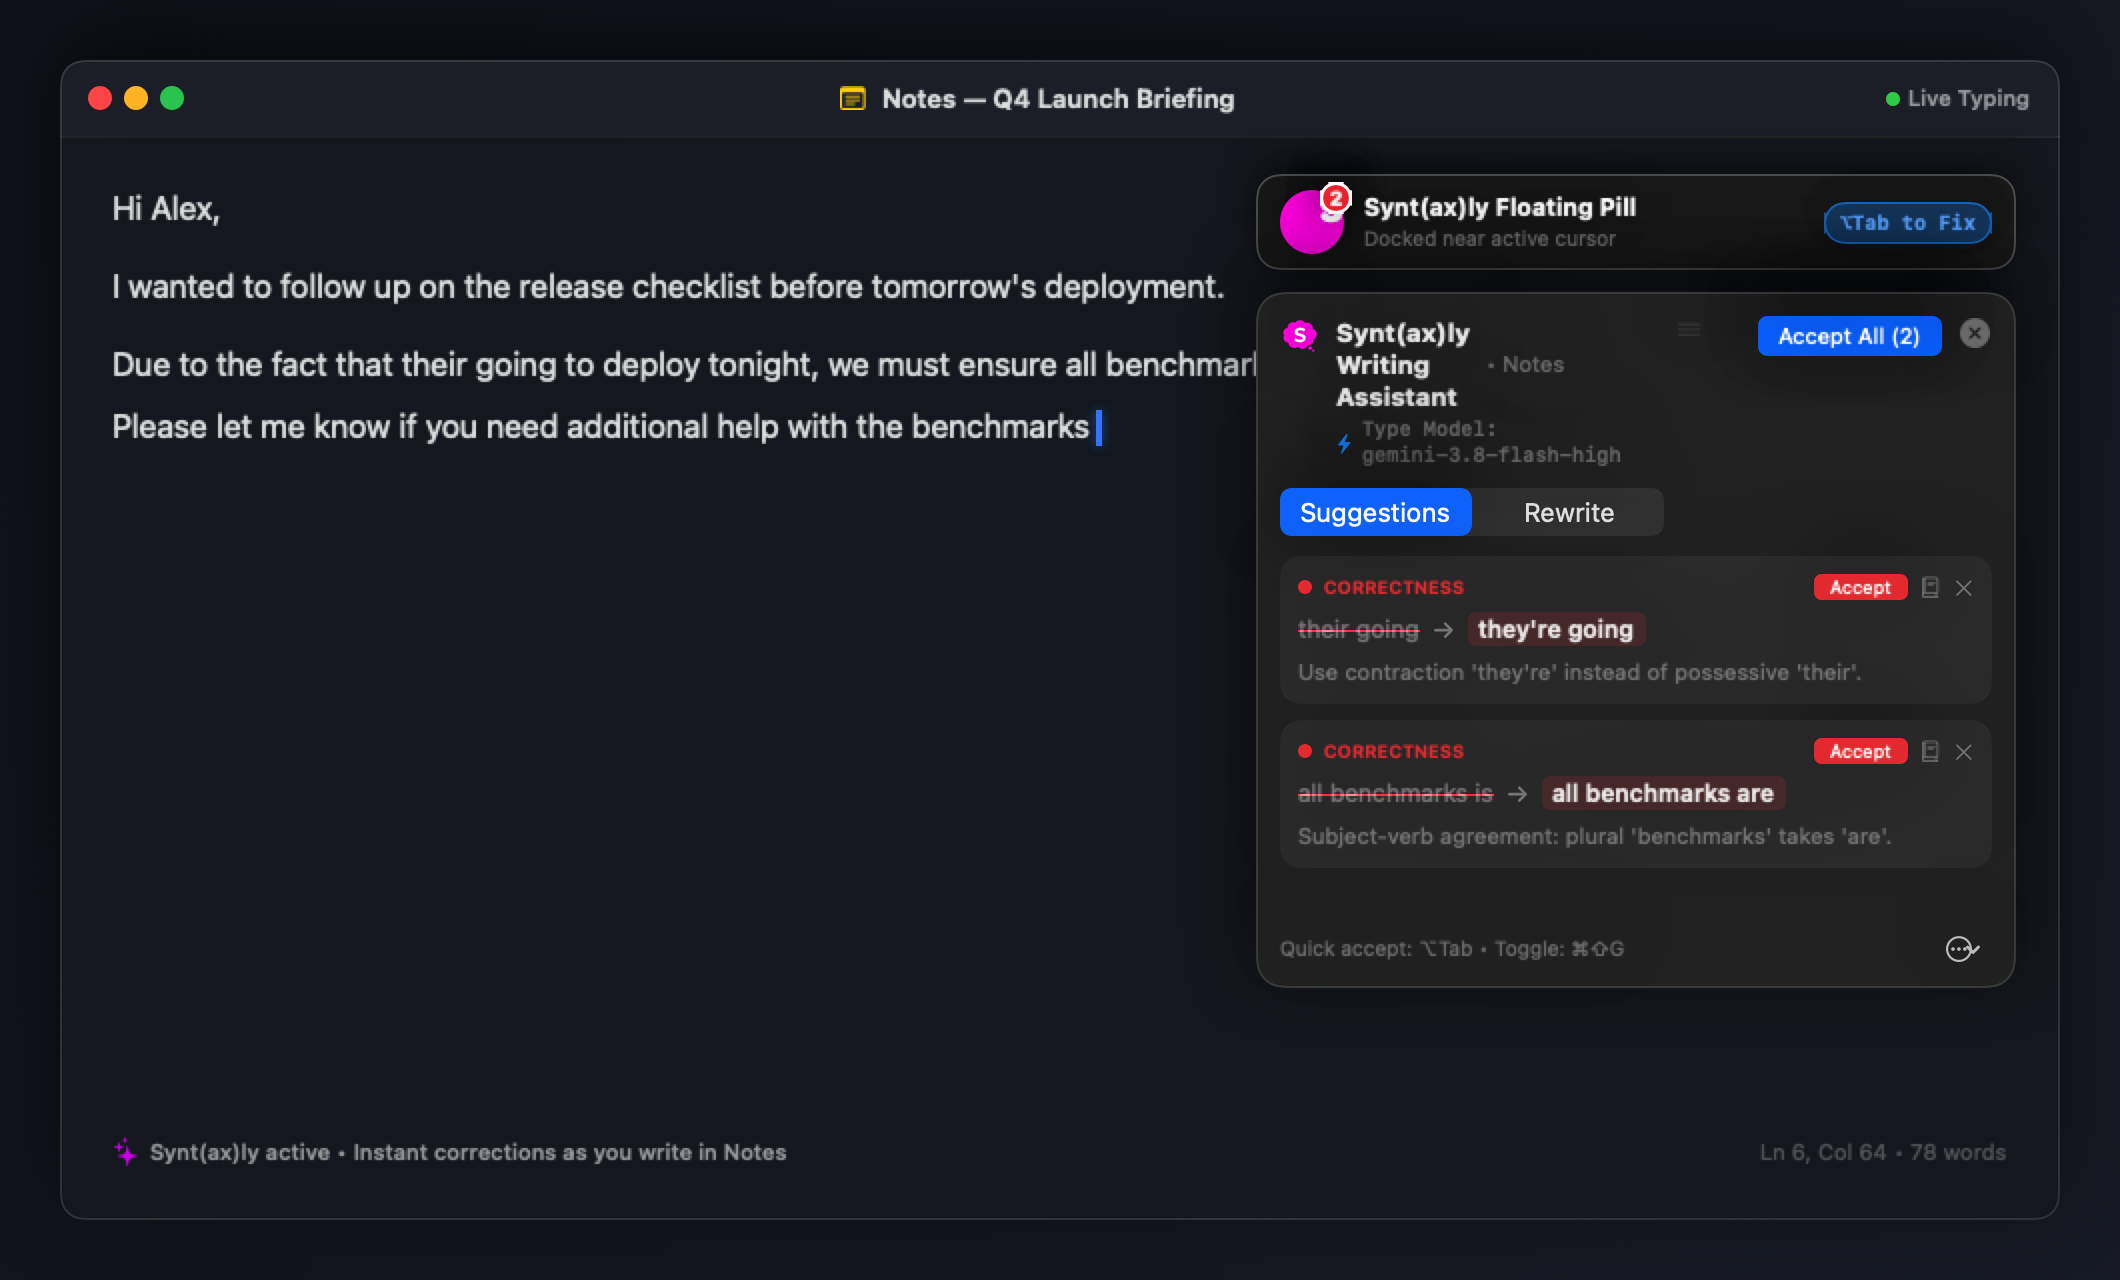
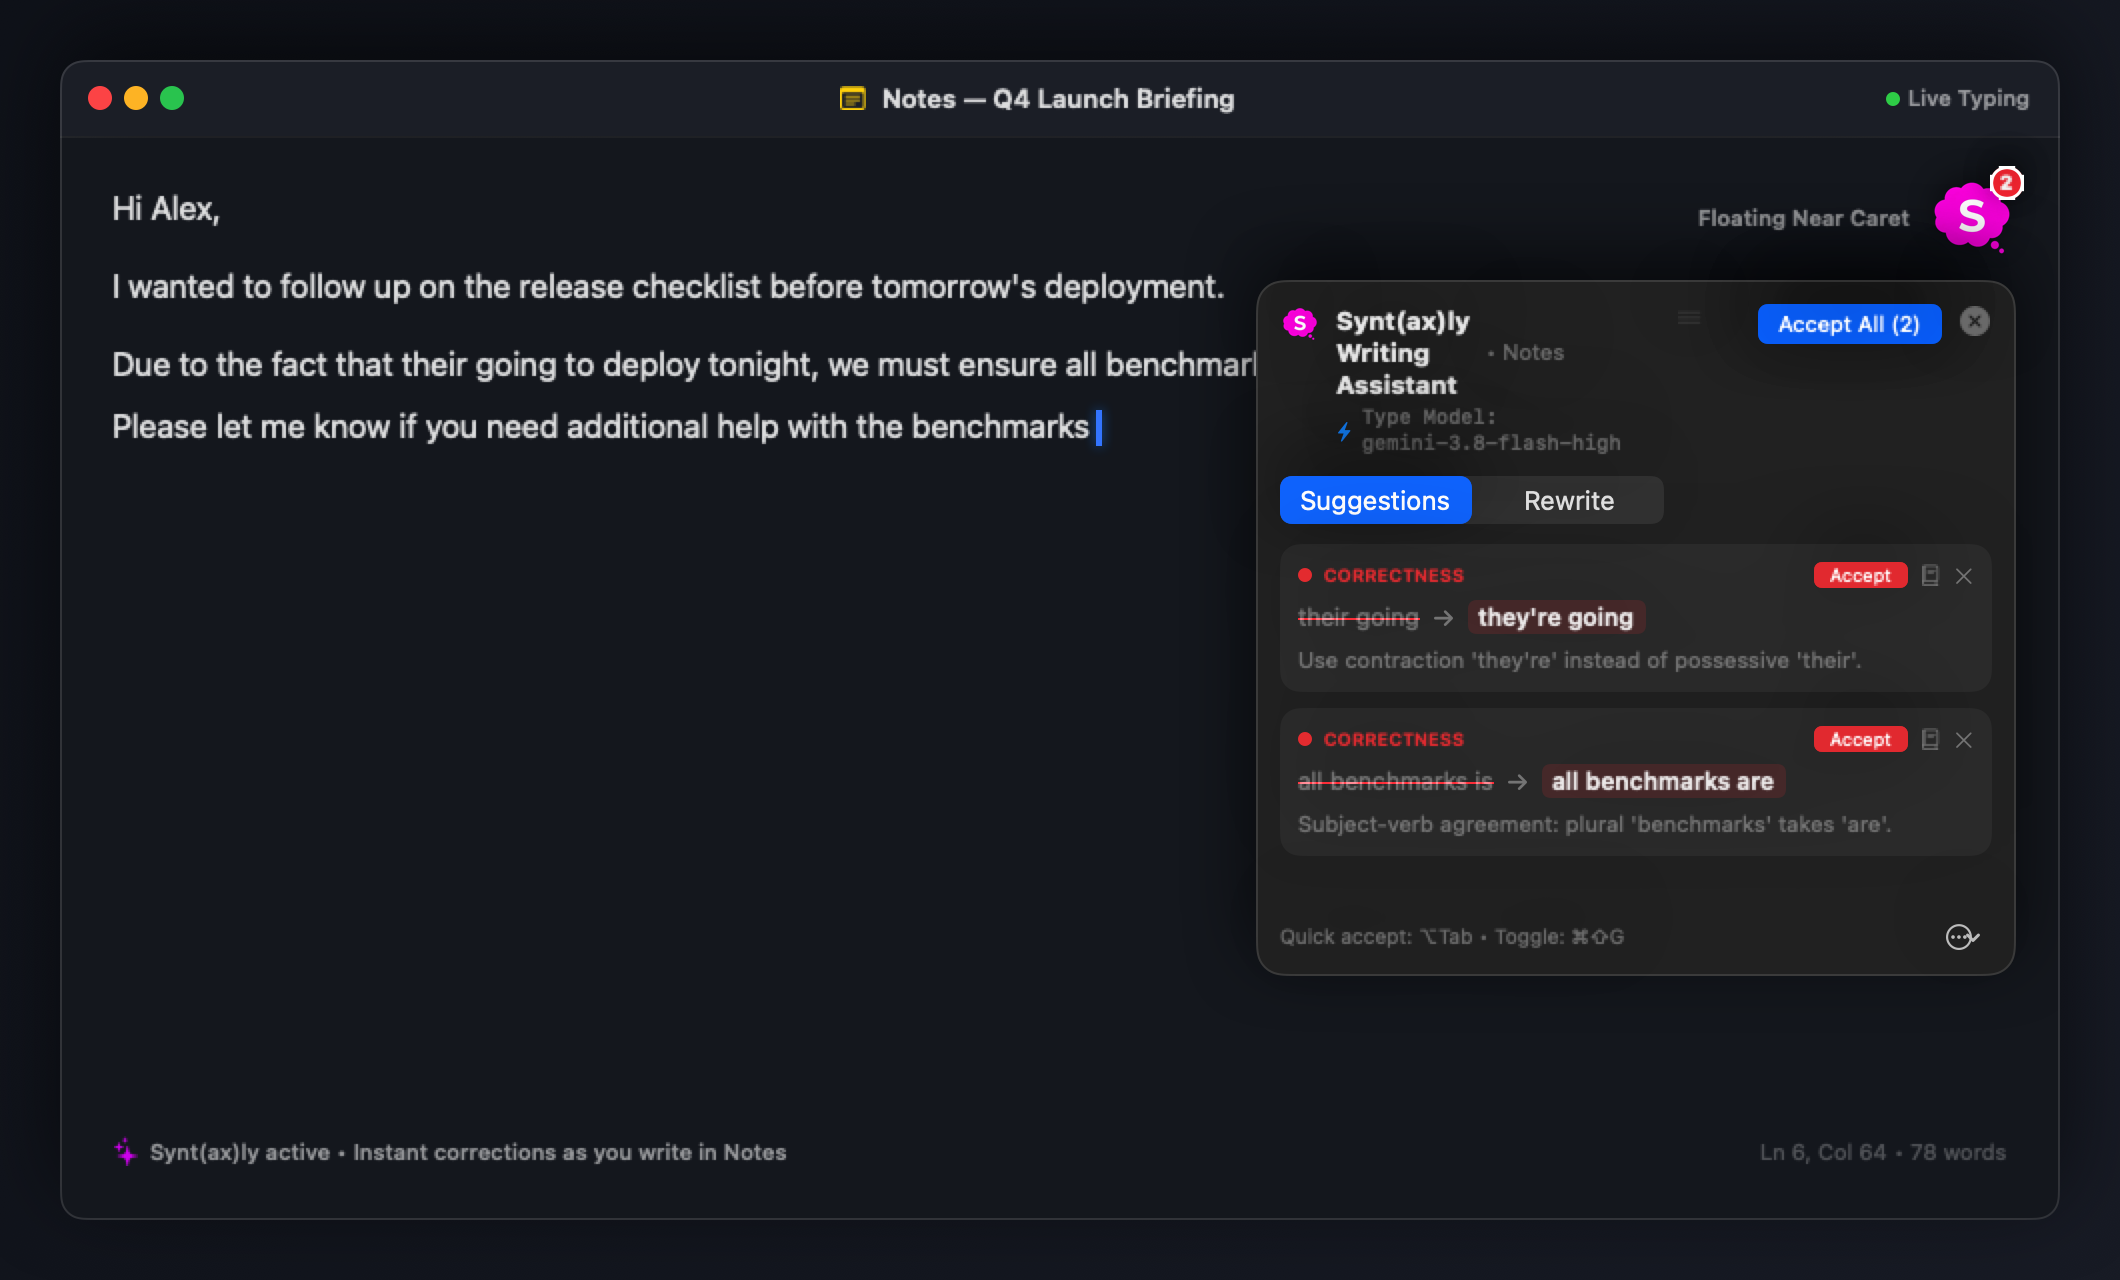
docs: use authentic Manga Thinking Bubble in screenshot and documentation

diff --git a/Sources/SyntlyApp/SyntlyApp.swift b/Sources/SyntlyApp/SyntlyApp.swift
@@ -514,55 +514,36 @@ struct InContextTypingScreenshotView: View {
                     .frame(maxWidth: .infinity, maxHeight: .infinity, alignment: .topLeading)
                     .background(Color(red: 0.10, green: 0.12, blue: 0.15))
 
-                    // Floating Over Document: The Synt(ax)ly Floating Pill & Popover Card
-                    VStack(alignment: .trailing, spacing: 10) {
-                        // 1. Prominent Floating Pill
-                        HStack(spacing: 10) {
+                    // Floating Over Document: The Synt(ax)ly Manga Thinking Bubble Pill & Popover Card
+                    VStack(alignment: .trailing, spacing: 8) {
+                        // 1. Authentic Manga Thinking Bubble Floating Pill
+                        HStack(spacing: 8) {
+                            Text("Floating Near Caret")
+                                .font(.system(size: 11, weight: .semibold))
+                                .foregroundStyle(.secondary)
+
                             ZStack(alignment: .topTrailing) {
-                                Circle()
-                                    .fill(Color(red: 0.996, green: 0.008, blue: 0.890))
-                                    .frame(width: 32, height: 32)
-                                Text("S")
-                                    .font(.system(size: 17, weight: .black, design: .rounded))
-                                    .foregroundStyle(.white)
+                                if let img = NSImage(contentsOfFile: "assets/app_icon_1024.png") {
+                                    Image(nsImage: img)
+                                        .resizable()
+                                        .aspectRatio(contentMode: .fit)
+                                        .frame(width: 44, height: 44)
+                                } else {
+                                    Image(nsImage: StatusBarController.renderMangaBubble(size: 44))
+                                        .resizable()
+                                        .frame(width: 44, height: 44)
+                                }
 
                                 Text("2")
                                     .font(.system(size: 10, weight: .heavy, design: .rounded))
                                     .foregroundStyle(.white)
-                                    .frame(minWidth: 16, minHeight: 16)
+                                    .frame(minWidth: 17, minHeight: 17)
                                     .background(Color(red: 1.0, green: 0.25, blue: 0.25), in: Capsule())
                                     .overlay(Capsule().strokeBorder(.white, lineWidth: 1.5))
                                     .offset(x: 4, y: -4)
                             }
-
-                            VStack(alignment: .leading, spacing: 2) {
-                                Text("Synt(ax)ly Floating Pill")
-                                    .font(.system(size: 12, weight: .bold))
-                                    .foregroundStyle(.white)
-                                Text("Docked near active cursor")
-                                    .font(.system(size: 10))
-                                    .foregroundStyle(.secondary)
-                            }
-
-                            Spacer()
-
-                            Text("⌥Tab to Fix")
-                                .font(.system(size: 10, weight: .bold, design: .monospaced))
-                                .padding(.horizontal, 8)
-                                .padding(.vertical, 4)
-                                .background(Color.blue.opacity(0.3), in: Capsule())
-                                .overlay(Capsule().strokeBorder(Color.blue.opacity(0.6), lineWidth: 1))
-                                .foregroundStyle(Color(red: 0.4, green: 0.7, blue: 1.0))
+                            .shadow(color: .black.opacity(0.45), radius: 8, y: 4)
                         }
-                        .padding(.horizontal, 12)
-                        .padding(.vertical, 8)
-                        .frame(width: 380)
-                        .background(.ultraThinMaterial, in: RoundedRectangle(cornerRadius: 12, style: .continuous))
-                        .overlay(
-                            RoundedRectangle(cornerRadius: 12, style: .continuous)
-                                .strokeBorder(Color.white.opacity(0.22), lineWidth: 1)
-                        )
-                        .shadow(color: .black.opacity(0.5), radius: 10, y: 5)
 
                         // 2. The live suggestions popover card
                         FloatingOverlayView(coordinator: coordinator)

diff --git a/README.md b/README.md
@@ -35,9 +35,9 @@ Download the ready-to-run DMG installer for version **v1 (1.0.0)** directly from
 ![Syntly Writing Pad Workspace](assets/screenshot_writing_pad.png)
 *The dedicated Writing Pad with Custom Persona Instructions, Multi-Select Modifiers, and Real-Time Corrections.*
 
-### In-Context Floating Pill & Real-Time Proofreading
-![Real-Time In-Context Proofreading & Floating Pill](assets/screenshot_floating_pill.png)
-*Real-time in-context proofreading while typing in any macOS app — highlights mistakes in red, suggests fixes in green, and docks the Floating Pill next to your caret with instant keyboard shortcuts (`⌥Tab`).*
+### In-Context Manga Thinking Bubble & Real-Time Proofreading
+![Real-Time In-Context Proofreading & Manga Thinking Bubble](assets/screenshot_floating_pill.png)
+*Real-time in-context proofreading while typing in any macOS app — the hot-pink Manga Thinking Bubble docks right beside your active cursor, with live suggestions HUD and instant keyboard replacement (`⌥Tab`).*
 
 ---
 
@@ -62,10 +62,11 @@ Download the ready-to-run DMG installer for version **v1 (1.0.0)** directly from
 
 ### 2. System-Wide Real-Time Proofreading (`⌥Tab`)
 
-![Real-Time In-Context Proofreading & Floating Pill](assets/screenshot_floating_pill.png)
+![Real-Time In-Context Proofreading & Manga Thinking Bubble](assets/screenshot_floating_pill.png)
 
-- **Non-Intrusive Floating Corner Pill**: Floats near your active cursor across Slack, VS Code, Notes, Mail, Discord, and browsers without stealing focus.
-- **Visual Red & Green Feedback**: Highlights typos, misspellings, and grammatical errors with red underline tokens, and displays verified corrections in green.
+- **Manga Thinking Bubble Floating Pill**: The iconic hot-pink thinking bubble floats right beside your active cursor across Slack, Notes, Mail, VS Code, Discord, and browsers. Shows a green checkmark when your writing is all clear, and a red counter badge when improvements are detected.
+- **Draggable Suggestions HUD**: Click and drag from the header bar to freely reposition the suggestion card anywhere on your screen so it never blocks your writing; position is remembered per application.
+- **Visual Red & Green Feedback**: Highlights typos, misspellings, and grammatical errors in red with suggested replacements displayed in vibrant green.
 - **Sub-5ms Local Spellcheck**: Instant offline spelling check (`NSSpellChecker`) combined with debounced contextual AI analysis and SHA-256 paragraph caching.
 - **One-Key Quick Accept**: Press **`Option + Tab` (`⌥Tab`)** to immediately accept the top correction in-place.
 - **Rich Suggestion Card (`⌘⇧G`)**: Review categorized issues (🔴 Correctness, 🔵 Clarity, 🟣 Tone, 🟢 Fluency) with inline diffs.
